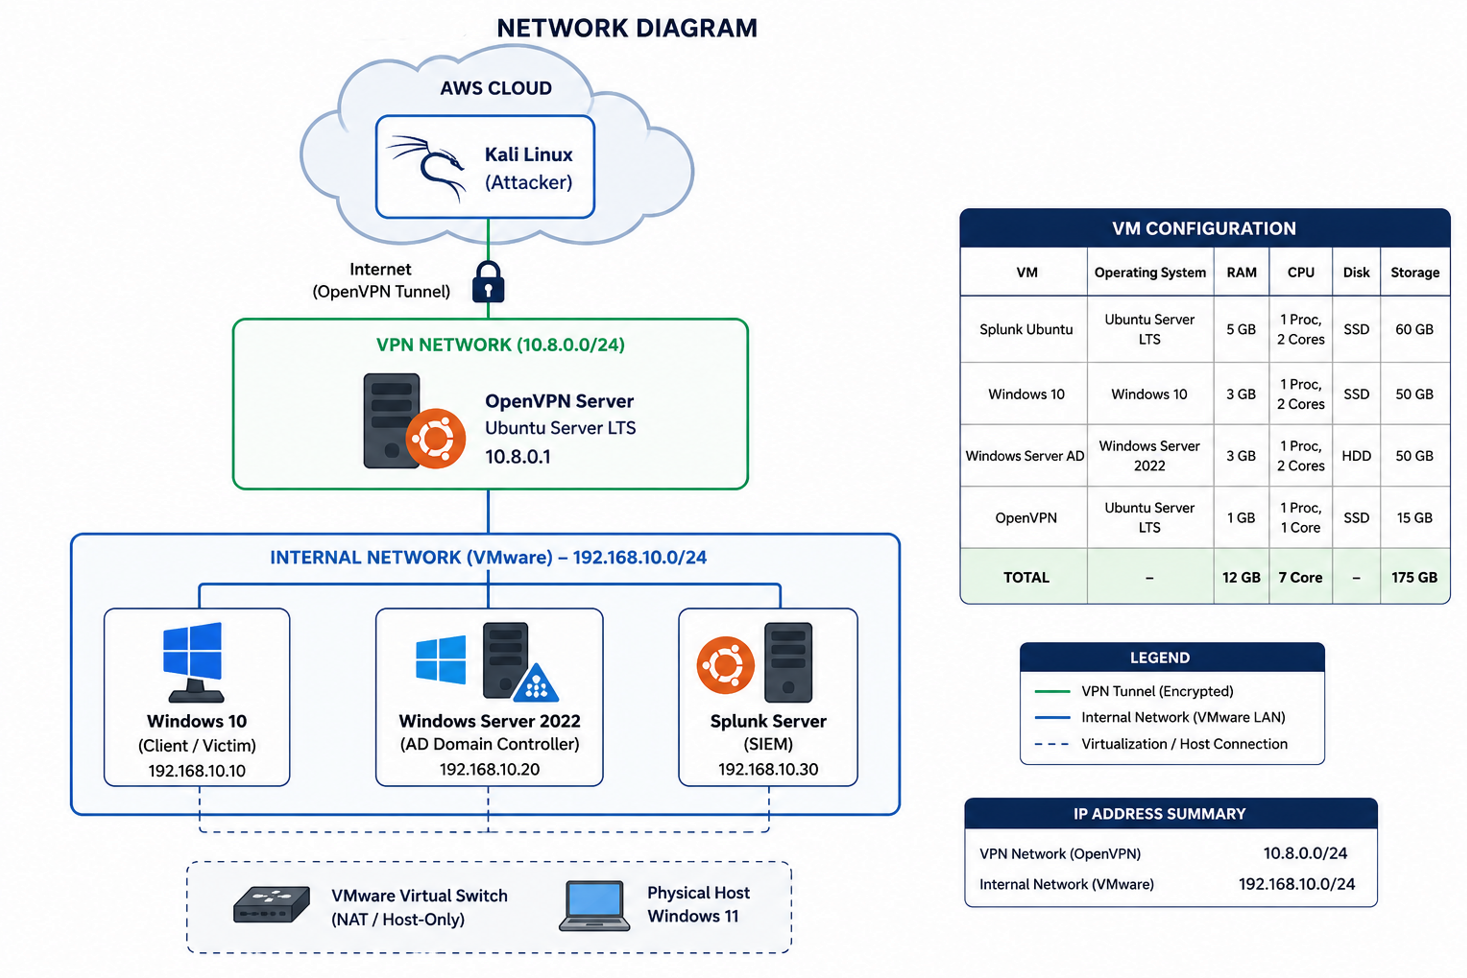
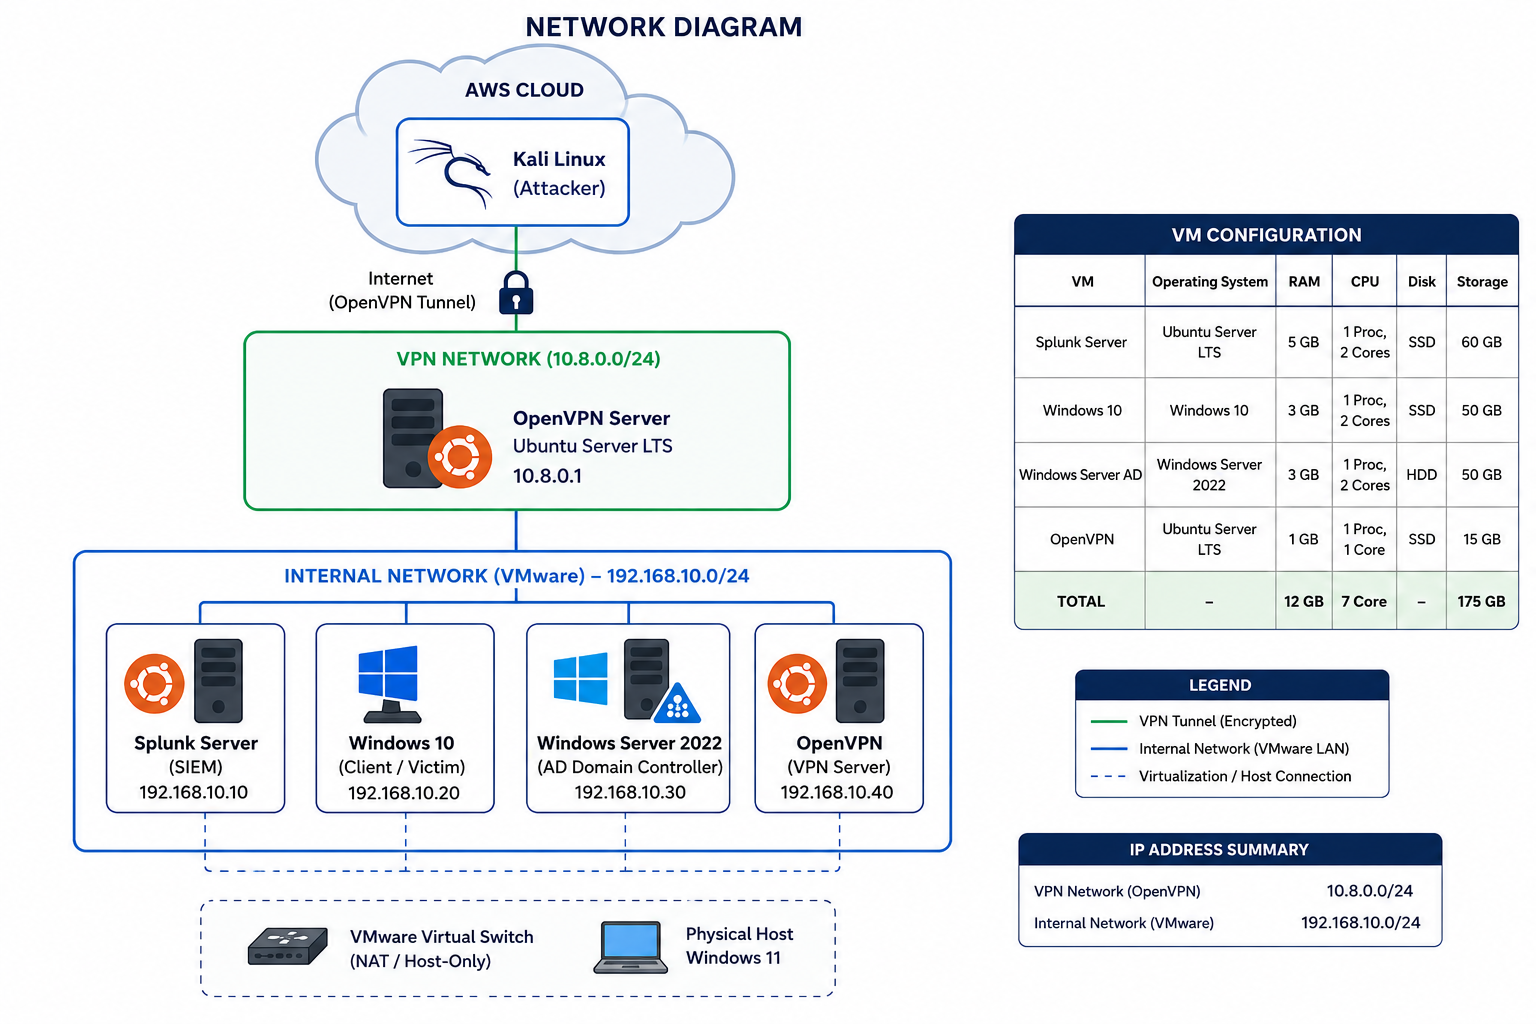
update

diff --git a/README.md b/README.md
@@ -34,20 +34,21 @@ A professional blue-team home lab designed to simulate enterprise security monit
 
 If you're reviewing this repository for the first time, the recommended reading order is:
 
-1. `docs/lab-overview.md`
-2. `architecture/README.md`
-3. `docs/logging-architecture.md`
-4. `splunk/README.md`
-5. `docs/detection-use-cases.md`
-6. `splunk/detection-catalog.md`
-7. `splunk/rules/`
-8. `attack-simulation/playbooks.md`
-9. `docs/attack-scenario.md`
-10. `splunk/dashboard-catalog.md`
-11. `splunk/dashboards/`
-12. `logs-evidence/`
-13. `screenshots/`
-14. `MITRE-ATTACK-MAPPING.md`
+1. `README.md`
+2. `docs/lab-overview.md`
+3. `architecture/README.md`
+4. `docs/logging-architecture.md`
+5. `splunk/README.md`
+6. `docs/detection-use-cases.md`
+7. `splunk/detection-catalog.md`
+8. `splunk/rules/`
+9. `attack-simulation/playbooks.md`
+10. `docs/attack-scenario.md`
+11. `splunk/dashboard-catalog.md`
+12. `splunk/dashboards/`
+13. `logs-evidence/`
+14. `screenshots/`
+15. `MITRE-ATTACK-MAPPING.md`
 
 ---
 
@@ -139,7 +140,7 @@ For detailed architecture diagrams and network design, see:
 | OpenVPN | Secure remote access simulation |
 | VMware Workstation | Virtualization platform |
 | AWS EC2 (Kali Linux) | External attacker simulation |
-| Git & GitHub | Version control and project documentation |
+| Git & GitHub |project documentation |
 
 ---
 
@@ -194,8 +195,6 @@ Current detection coverage includes:
 | T1003.001 | LSASS Memory |
 | T1021 | Remote Services |
 | T1046 | Network Service Discovery |
-
-Additional ATT&CK coverage will be added as new detections are implemented.
 
 ---
 